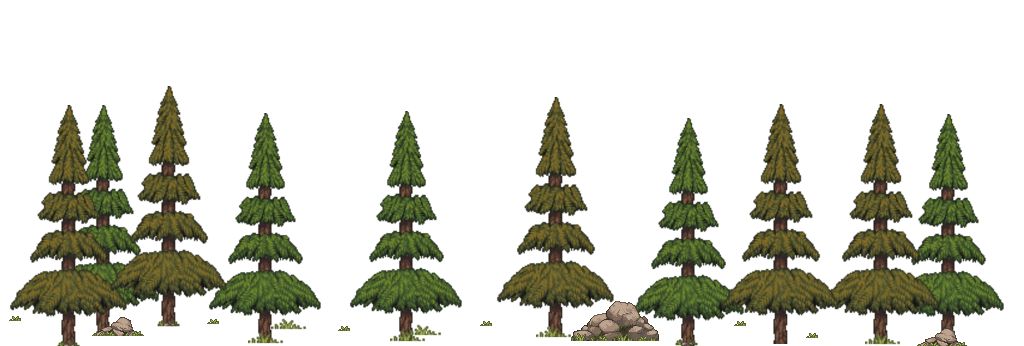
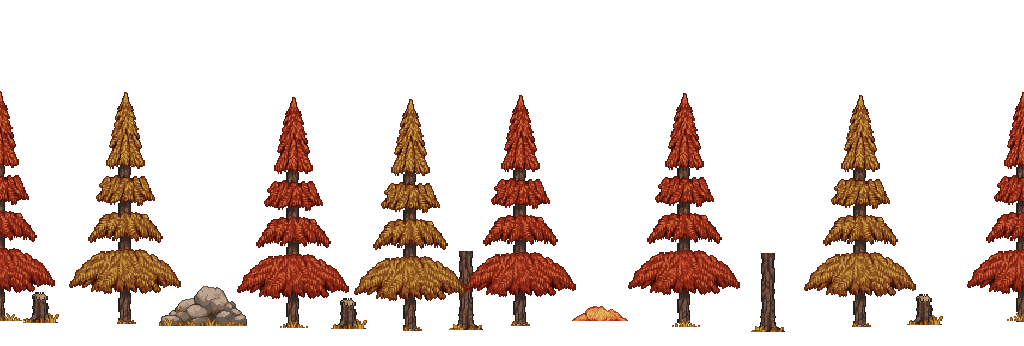
seasonal decoration layers

diff --git a/src/scenes/game-scene.ts b/src/scenes/game-scene.ts
@@ -13,7 +13,6 @@ import { Tree } from "../actors/resources/tree/tree";
 import { Ore } from "../actors/resources/ore/ore";
 import { DecorationManager } from "../sprite-sheets/scenery/decorations/decorations-manager";
 import { DecorationResources } from "../resources/decoration-resources";
-import { createForestDecorationLayer } from "./create-forest-decoration-layer";
 import { BuildingManager } from "../building-manager/building-manager";
 import { BuildingInput } from "../building-manager/building-input";
 import { BuildingResources } from "../resources/building-resources";
@@ -25,7 +24,6 @@ export class GameMapScene extends ex.Scene {
   public levelWidth: number;
   public levelHeight: number;
   private groundTileManager = new GroundTileManager(FloorResources.floor1);
-  private decorationManager: DecorationManager | null = null;
   private spawnIntervalTime = 20000;
 
   private AUTO_SPAWN_ENEMIES = false;
@@ -315,11 +313,30 @@ export class GameMapScene extends ex.Scene {
       this.add(ground);
     });
 
-    this.createBackground(engine);
+    this.createBackground(
+      engine,
+      this.levelHeight - this.getAverageGroundHeight(groundActors)
+    );
     engine.timeCycle.starField?.createStars(this);
   }
 
-  protected async createBackground(engine: GameEngine): Promise<void> {
+  private getAverageGroundHeight(groundActors: ex.Actor[]): number {
+    if (groundActors.length === 0) {
+      return this.levelHeight;
+    }
+
+    const totalY = groundActors.reduce((sum, actor) => {
+      // Get the top edge of the ground actor (pos.y - height/2)
+      return sum + (actor.pos.y - actor.height / 2);
+    }, 0);
+
+    return totalY / groundActors.length;
+  }
+
+  protected async createBackground(
+    engine: GameEngine,
+    averageGroundHeight: number
+  ): Promise<void> {
     const season = engine.timeCycle.getCurrentSeason();
     const biome = this.config.type;
     const theme =
@@ -373,66 +390,39 @@ export class GameMapScene extends ex.Scene {
       },
       {
         resource: backgrounds.layer1,
-        parallax: ex.vec(0.7, 0.7),
+        parallax: ex.vec(0.65, 0.65),
         z: -94,
       },
       {
         resource: backgrounds.decoration4,
-        parallax: ex.vec(0.75, 0.75),
+        parallax: ex.vec(0.7, 0.7),
         z: -93,
+        isDecoration: true,
       },
       {
         resource: backgrounds.decoration3,
-        parallax: ex.vec(0.8, 0.8),
+        parallax: ex.vec(0.75, 0.75),
         z: -92,
+        isDecoration: true,
       },
       {
         resource: backgrounds.decoration2,
-        parallax: ex.vec(0.85, 0.85),
+        parallax: ex.vec(0.8, 0.8),
         z: -91,
+        isDecoration: true,
       },
       {
         resource: backgrounds.decoration1,
-        parallax: ex.vec(0.9, 0.9),
+        parallax: ex.vec(0.85, 0.85),
         z: -90,
+        isDecoration: true,
       },
     ];
 
     for (const layer of layers) {
       const resolvedLayer = await Promise.resolve(layer);
 
-      if ("isDecoration" in resolvedLayer && resolvedLayer.isDecoration) {
-        if (!resolvedLayer.canvas) {
-          continue;
-        }
-        const parallaxFactor = resolvedLayer.parallax.y;
-        const decorationWidth = resolvedLayer.canvas.width;
-        const decorationHeight = resolvedLayer.canvas.height;
-
-        const decorationTilesNeeded =
-          Math.ceil(this.levelWidth / decorationWidth) + 2;
-
-        for (let i = -1; i < decorationTilesNeeded; i++) {
-          const y =
-            ((this.levelHeight || 0) - decorationHeight / 2) * parallaxFactor;
-          const x =
-            ((i * decorationWidth + decorationWidth) * parallaxFactor) / 2;
-
-          const decorationLayer = new ex.Actor({
-            name: `decoration_layer_${i}`,
-            pos: ex.vec(x, y),
-            anchor: ex.vec(0.5, 0.5),
-            z: resolvedLayer.z,
-          });
-
-          decorationLayer.graphics.use(resolvedLayer.canvas);
-          decorationLayer.addComponent(
-            new ex.ParallaxComponent(resolvedLayer.parallax)
-          );
-
-          this.add(decorationLayer);
-        }
-      } else if (resolvedLayer.isSky) {
+      if (resolvedLayer.isSky) {
         if (!resolvedLayer.resource) {
           continue;
         }
@@ -478,7 +468,9 @@ export class GameMapScene extends ex.Scene {
           const parallaxFactor = resolvedLayer.parallax.y;
 
           const y =
-            ((this.levelHeight || 0) - sprite.height / 2) * parallaxFactor;
+            ((this.levelHeight || 0) - sprite.height / 2) * parallaxFactor -
+            (resolvedLayer.isDecoration ? averageGroundHeight / 2 : 0);
+          // (resolvedLayer.isDecoration ? 0 : 10 * parallaxFactor);
           const x = i * bgWidth + bgWidth / 2;
 
           const background = new ex.Actor({
@@ -654,10 +646,14 @@ export class GameMapScene extends ex.Scene {
   }
 
   protected async createLevel(engine: GameEngine): Promise<void> {
-    await this.createBackground(engine);
+    const groundActors = this.createGroundSegments(engine);
+
+    await this.createBackground(
+      engine,
+      this.levelHeight - this.getAverageGroundHeight(groundActors)
+    );
     this.createPlatforms();
 
-    const groundActors = this.createGroundSegments(engine);
     groundActors.forEach((ground) => {
       this.add(ground);
     });

diff --git a/src/resources/background-resources.ts b/src/resources/background-resources.ts
@@ -123,6 +123,18 @@ export const BackgroundResources = {
       layer5Night: new ex.ImageSource(
         "/assets/backgrounds/mountain/fall/layer5-night.png"
       ),
+      decoration1: new ex.ImageSource(
+        "/assets/backgrounds/mountain/fall/decorations1.png"
+      ),
+      decoration2: new ex.ImageSource(
+        "/assets/backgrounds/mountain/fall/decorations2.png"
+      ),
+      decoration3: new ex.ImageSource(
+        "/assets/backgrounds/mountain/fall/decorations3.png"
+      ),
+      decoration4: new ex.ImageSource(
+        "/assets/backgrounds/mountain/fall/decorations4.png"
+      ),
     },
     winter: {
       layer1: new ex.ImageSource(
@@ -138,14 +150,26 @@ export const BackgroundResources = {
         "/assets/backgrounds/mountain/winter/layer4.png"
       ),
       layer4Night: new ex.ImageSource(
-        "/assets/backgrounds/mountain/fall/layer4-night.png"
+        "/assets/backgrounds/mountain/winter/layer4-night.png"
       ),
 
       layer5: new ex.ImageSource(
         "/assets/backgrounds/mountain/winter/layer5.png"
       ),
       layer5Night: new ex.ImageSource(
-        "/assets/backgrounds/mountain/fall/layer5-night.png"
+        "/assets/backgrounds/mountain/winter/layer5-night.png"
+      ),
+      decoration1: new ex.ImageSource(
+        "/assets/backgrounds/mountain/winter/decorations1.png"
+      ),
+      decoration2: new ex.ImageSource(
+        "/assets/backgrounds/mountain/winter/decorations2.png"
+      ),
+      decoration3: new ex.ImageSource(
+        "/assets/backgrounds/mountain/winter/decorations3.png"
+      ),
+      decoration4: new ex.ImageSource(
+        "/assets/backgrounds/mountain/winter/decorations4.png"
       ),
     },
     normal: {
@@ -169,7 +193,19 @@ export const BackgroundResources = {
         "/assets/backgrounds/mountain/normal/layer5.png"
       ),
       layer5Night: new ex.ImageSource(
-        "/assets/backgrounds/mountain/fall/layer5-night.png"
+        "/assets/backgrounds/mountain/normal/layer5-night.png"
+      ),
+      decoration1: new ex.ImageSource(
+        "/assets/backgrounds/mountain/normal/decorations1.png"
+      ),
+      decoration2: new ex.ImageSource(
+        "/assets/backgrounds/mountain/normal/decorations2.png"
+      ),
+      decoration3: new ex.ImageSource(
+        "/assets/backgrounds/mountain/normal/decorations3.png"
+      ),
+      decoration4: new ex.ImageSource(
+        "/assets/backgrounds/mountain/normal/decorations4.png"
       ),
     },
   },
